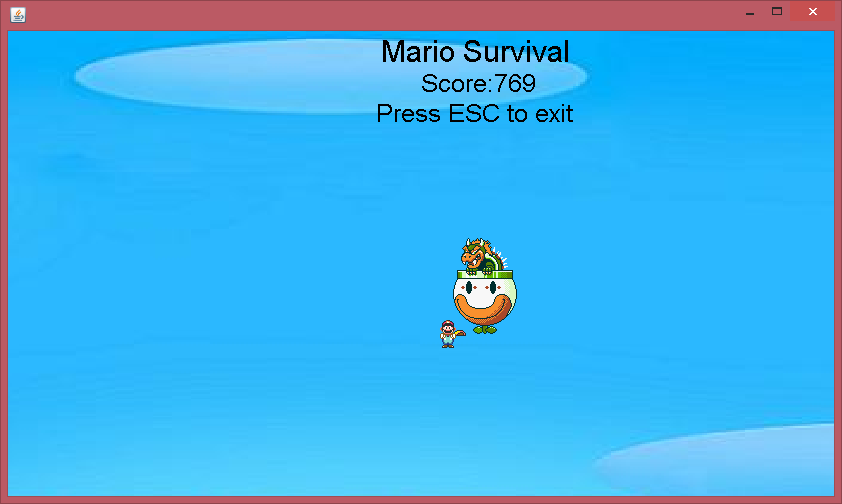
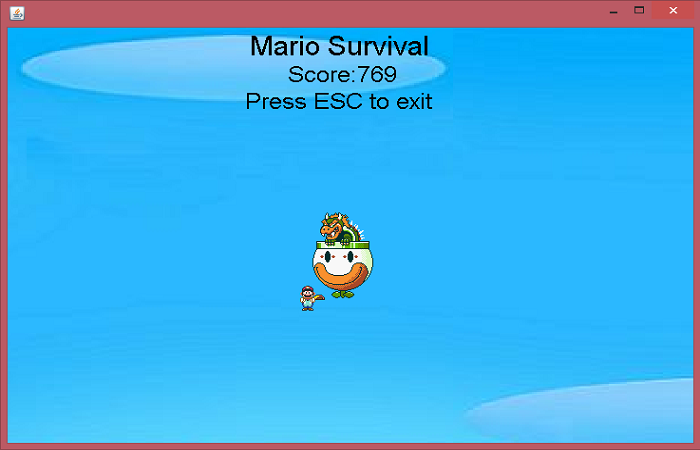
added mario game to portfolio section

diff --git a/index.html b/index.html
@@ -270,7 +270,7 @@
             <div class="row">
                 <div class="col-lg-12 text-center">
                     <h2 class="section-heading white-font">Portfolio</h2>
-                    <h3 class="section-subheading text-muted white-font">I'm working on some projects to put up here, so please stay tuned!</h3>
+                    <h3 class="section-subheading text-muted white-font">I am working on some side projects, so please stay tuned!</h3>
                 </div>
             </div>
             <div class="row">
@@ -281,11 +281,11 @@
                                 <i class="fa fa-plus fa-3x"></i>
                             </div>
                         </div>
-                        <img src="img/portfolio/coming-soon.png" class="img-responsive" alt="">
+                        <img src="img/portfolio/MarioGame.png" class="img-responsive" alt="">
                     </a>
                     <div class="portfolio-caption">
-                        <h4>Coming Soon!</h4>
-                        <p class="text-muted">Coming Soon!</p>
+                        <h4>Mario Game</h4>
+                        <p class="text-muted">Simple game based on collision detection. Created with Java AWT.</p>
                     </div>
                 </div>
                 <div class="col-md-4 col-sm-6 portfolio-item">
@@ -360,9 +360,9 @@
                     <div class="col-lg-8 col-lg-offset-2">
                         <div class="modal-body">
                             <!-- Project Details Go Here -->
-                            <h2>Stay tuned!</h2>
-                            <p class="item-intro text-muted">Stay tuned for a new project.</p>
-                            <img class="img-responsive img-centered" src="img/portfolio/coming-soon.png" alt="">
+                            <h2>Mario Game</h2>
+                            <p class="item-intro text-muted">I started this project in college for my Java class. I recently dug up this project and decided to put some final touches on it to make it more "complete". I developed it with Java AWT to paint sprites and background on the screen. The sprites move based on time and the user sprite (mario) changes direction based on user input. There's also collision detection to see if enemy sprite (bowser) and user sprite (mario) overlaps (collides). The hitbox is just a rectangle so nothing too fancy there. There are better ways for collision detection but I'll play around with them in other projects. Check it out <a href="https://github.com/davyxzhang/MarioGame">here</a>! </p>
+                            <img class="img-responsive img-centered" src="img/portfolio/MarioGame.png" alt="">
                             <!-- <p>Use this area to describe your project. Lorem ipsum dolor sit amet, consectetur adipisicing elit. Est blanditiis dolorem culpa incidunt minus dignissimos deserunt repellat aperiam quasi sunt officia expedita beatae cupiditate, maiores repudiandae, nostrum, reiciendis facere nemo!</p>
                             <p>
                                 <strong>Want these icons in this portfolio item sample?</strong>You can download 60 of them for free, courtesy of <a href="https://getdpd.com/cart/hoplink/18076?referrer=bvbo4kax5k8ogc">RoundIcons.com</a>, or you can purchase the 1500 icon set <a href="https://getdpd.com/cart/hoplink/18076?referrer=bvbo4kax5k8ogc">here</a>.</p>
